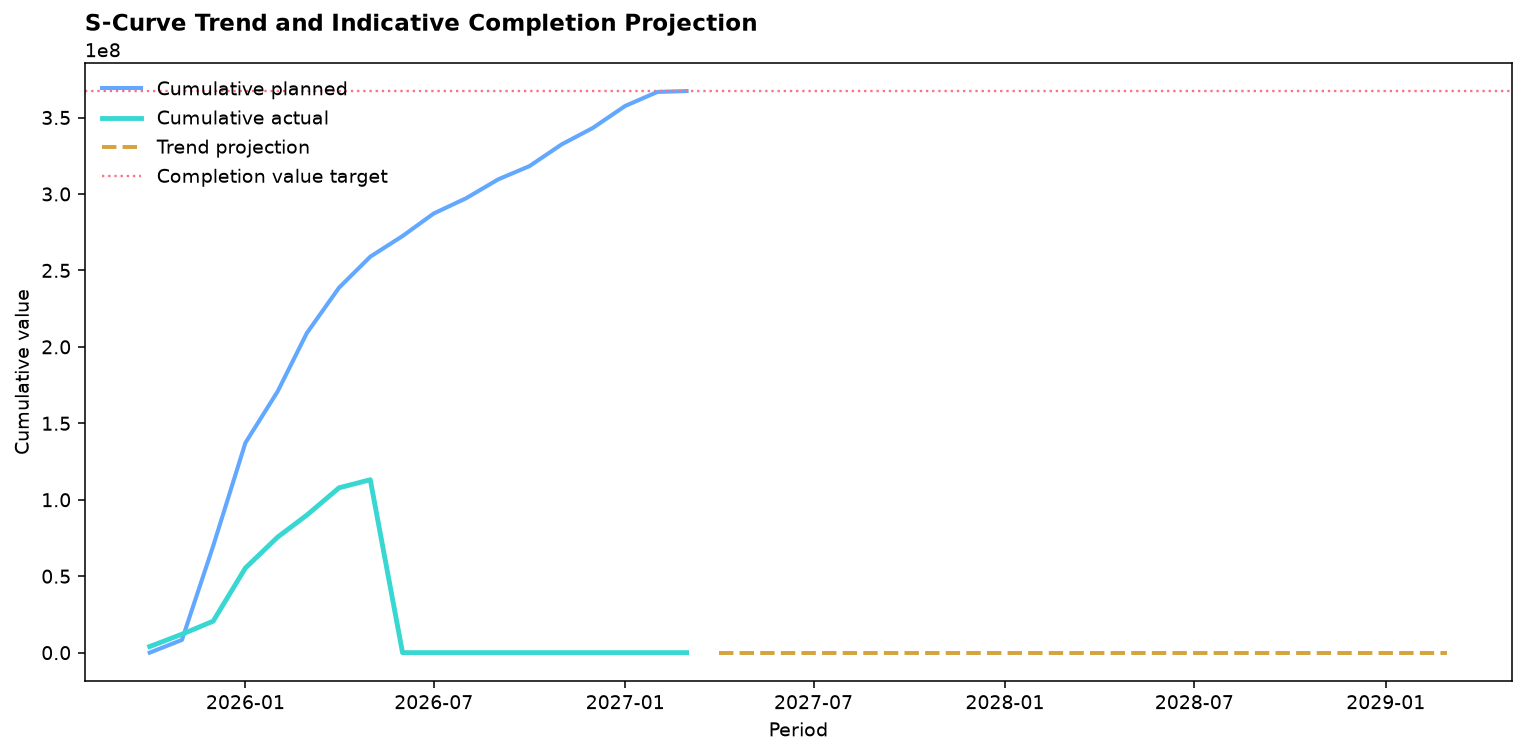
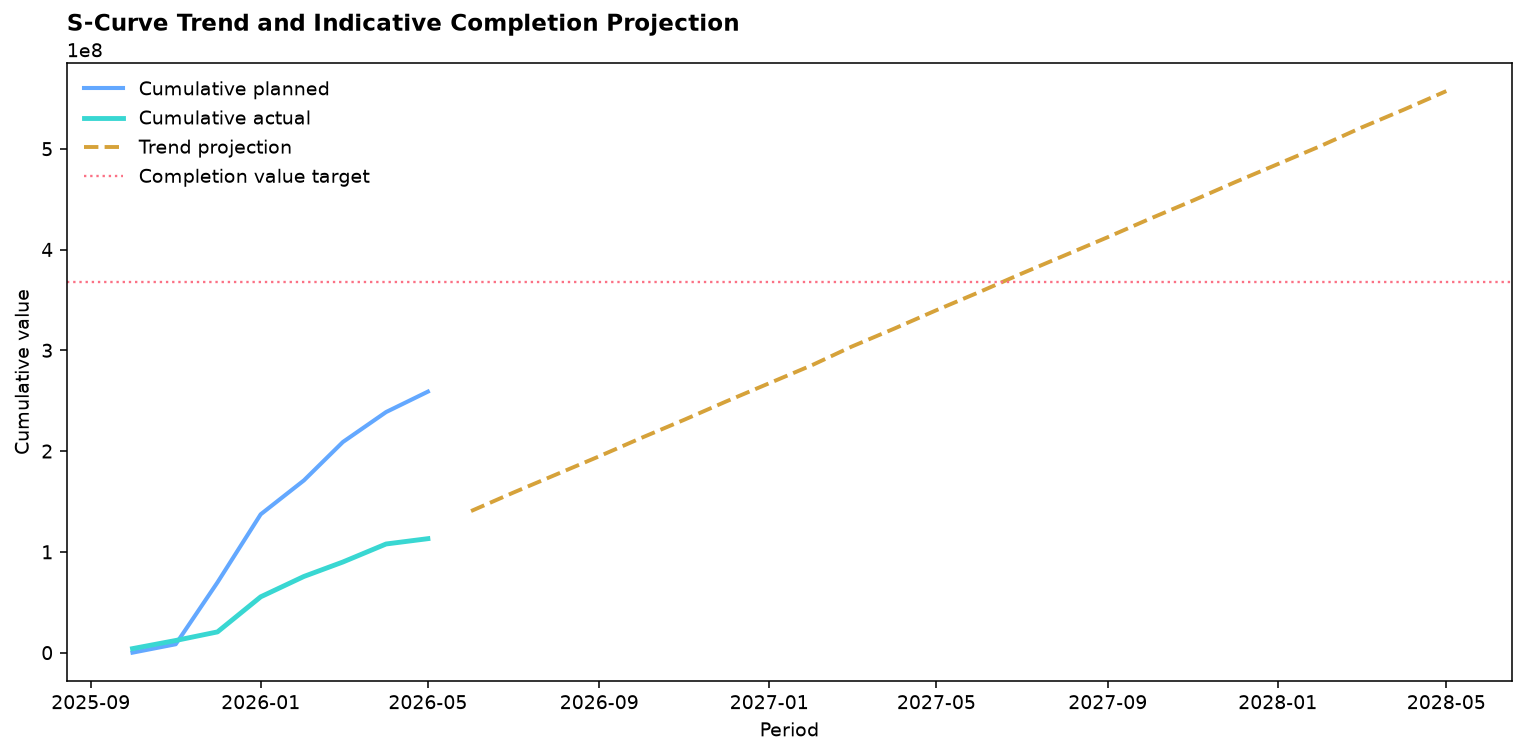
Publish validated Next.js project pipeline upload batch 1/1 - 2026-07-31 03:01

diff --git a/tools/advanced_analytics.py b/tools/advanced_analytics.py
@@ -96,6 +96,25 @@ def _parse_date_series(values: Any) -> pd.Series:
     return parsed
 
 
+def _clean_cumulative_series(values: pd.Series) -> tuple[pd.Series, int]:
+    """Exclude unsubstantiated cumulative resets without rewriting source data."""
+    cleaned: list[float] = []
+    highest_value: float | None = None
+    excluded = 0
+    for value in values:
+        number = _number(value)
+        if number is None:
+            cleaned.append(float("nan"))
+            continue
+        if highest_value is not None and number < highest_value:
+            cleaned.append(float("nan"))
+            excluded += 1
+            continue
+        cleaned.append(number)
+        highest_value = number if highest_value is None else max(highest_value, number)
+    return pd.Series(cleaned, index=values.index, dtype=float), excluded
+
+
 def _library_status() -> dict[str, dict[str, Any]]:
     packages = {
         "pandas": "pandas",
@@ -234,6 +253,7 @@ def _s_curve_forecast(s_curve: list[dict[str, Any]], contract_value: float | Non
     frame["date"] = frame.apply(lambda row: _pick(row.to_dict(), ["months", "month", "date", "period"]), axis=1)
     frame["planned"] = frame.apply(lambda row: _number(_pick(row.to_dict(), ["cumm_monthly_planned", "cumulative_planned", "planned_cumulative"])), axis=1)
     frame["actual"] = frame.apply(lambda row: _number(_pick(row.to_dict(), ["cumm_monthly_actual", "cumulative_actual", "actual_cumulative"])), axis=1)
+    frame["actual"], excluded_actual_periods = _clean_cumulative_series(frame["actual"])
     frame["date"] = _parse_date_series(frame["date"])
     frame = frame.dropna(subset=["date", "actual"]).sort_values("date").drop_duplicates(subset=["date"], keep="last")
     if len(frame) < MIN_S_CURVE_PERIODS:
@@ -252,6 +272,21 @@ def _s_curve_forecast(s_curve: list[dict[str, Any]], contract_value: float | Non
         return ({"status": "insufficient_data", "periods_available": len(frame), "message": "No valid completion-value target is available."}, frame)
 
     actual_values = frame["actual"].to_numpy(dtype=float)
+    current_actual_value = float(actual_values[-1])
+    current_planned_value = round(float(frame["planned"].dropna().iloc[-1]), 2) if frame["planned"].notna().any() else None
+    if current_actual_value > target * 1.05:
+        return (
+            {
+                "status": "source_inconsistent",
+                "periods_available": len(frame),
+                "current_actual_value": round(current_actual_value, 2),
+                "current_planned_value": current_planned_value,
+                "completion_target_value": round(target, 2),
+                "excluded_cumulative_reset_periods": excluded_actual_periods,
+                "message": "Forecast disabled: the latest valid cumulative actual value exceeds the selected completion-value target. Reconcile S-curve units, cumulative resets, and the approved baseline before using the curve for management forecasting.",
+            },
+            frame[["date", "planned", "actual"]],
+        )
     method = "numpy linear trend fallback"
     forecast_values: np.ndarray
     try:
@@ -288,9 +323,10 @@ def _s_curve_forecast(s_curve: list[dict[str, Any]], contract_value: float | Non
             "status": status,
             "method": method,
             "periods_available": len(frame),
-            "current_actual_value": round(float(actual_values[-1]), 2),
-            "current_planned_value": round(float(frame["planned"].dropna().iloc[-1]), 2) if frame["planned"].notna().any() else None,
+            "current_actual_value": round(current_actual_value, 2),
+            "current_planned_value": current_planned_value,
             "completion_target_value": round(target, 2),
+            "excluded_cumulative_reset_periods": excluded_actual_periods,
             "recent_period_change": round(trend_delta, 2),
             "projected_completion_date": projected_date,
             "months_to_target": completion_index,

diff --git a/tools/validate_streamlit_vercel_pipeline.py b/tools/validate_streamlit_vercel_pipeline.py
@@ -123,7 +123,7 @@ def validate_advanced_analytics_output(
     if anomalies.get("status") == "ready" and int(anomalies.get("flagged_count") or 0) > 10:
         errors.append(f"{project_key}: advanced analytics anomaly review queue exceeds 10 records")
     forecast = analytics.get("s_curve_forecast", {})
-    if expected_counts["s_curve"] >= 6 and forecast.get("status") not in {"ready", "outside_horizon", "insufficient_data"}:
+    if expected_counts["s_curve"] >= 6 and forecast.get("status") not in {"ready", "outside_horizon", "source_inconsistent", "insufficient_data"}:
         errors.append(f"{project_key}: advanced analytics forecast returned an unknown status")
     chart_url = analytics.get("s_curve_chart_url")
     if chart_url:
